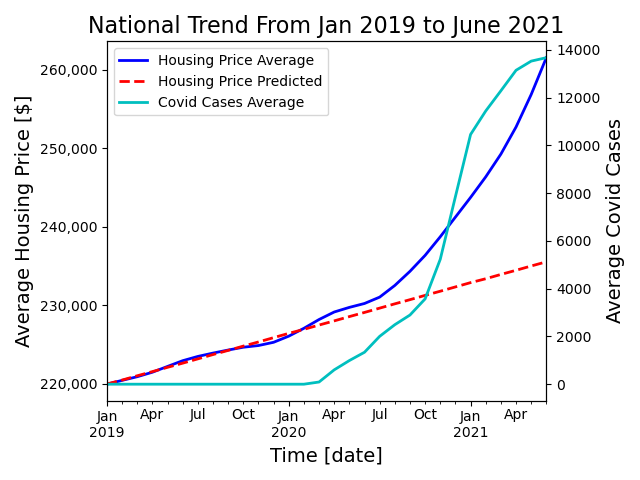
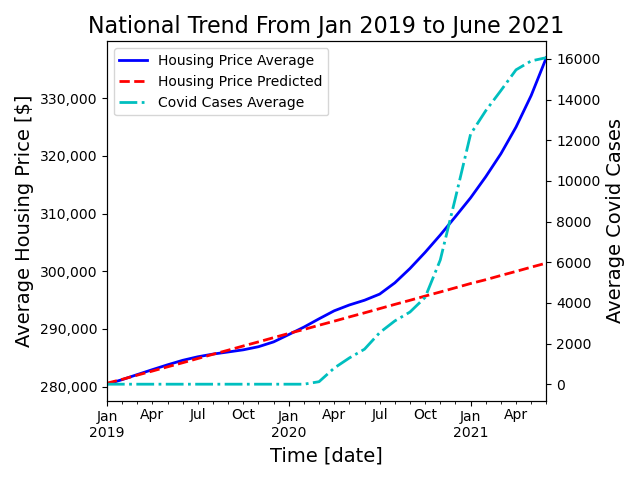
add group by to dz

diff --git a/main.py b/main.py
@@ -12,24 +12,24 @@ def covid(df_z,df_p,df_d,df_c,df_r,df_i):
     df_z.drop(df_z.iloc[:, 0:5], axis = 1, inplace = True)
     df_z.drop(df_z.iloc[:, 1:3], axis=1, inplace=True)
 
-    #rearrange columns
+    #rearrange columns and change data type
     #dz
     cols = df_z.columns.tolist()
-    cols = cols[-30:]+cols[0:1] #chose data and state
+    cols = cols[0:1]+cols[-30:] #chose data and state
     df_z_average= df_z[cols]
-    for col in cols[:-1]:
+    for col in cols[1:]:
         df_z_average[col] = df_z_average[col].astype('float')
-    #dc and d_d
 
-    #arrange back and transpose
-    cols = cols[-1:] + cols[0:-1]
-    df_z_average = df_z_average[cols]
+    #calculate mean transpose
+    df_z_average= df_z_average.set_index("State")
+    df_z_average = df_z_average.groupby("State").mean()
     df_z_average_T = df_z_average.T
 
+
     #remove header
-    new_header = df_z_average_T.iloc[0]
-    df_z_average_T = df_z_average_T[1:]
-    df_z_average_T.columns = new_header
+    # new_header = df_z_average_T.iloc[0]
+    # df_z_average_T = df_z_average_T[1:]
+    # df_z_average_T.columns = new_header
 
     #calculate average
     df_z_average_T.index = pd.to_datetime(df_z_average_T.index)
@@ -68,7 +68,7 @@ def covid(df_z,df_p,df_d,df_c,df_r,df_i):
     average_plot = average_plot.fillna(0)
 
     fig, ax = plt.subplots()
-    styles = ['c-','m-','b-',  'r--']
+    styles = ['c-.','m-','b-',  'r--']
     linewidths = [2, 2,2,2]
     for col, style, lw in zip(average_plot.columns[2:], styles[2:], linewidths[2:]):
         average_plot[col].plot(style=style, lw=lw, ax=ax)
@@ -90,8 +90,15 @@ def covid(df_z,df_p,df_d,df_c,df_r,df_i):
     plt.tight_layout()
     plt.savefig("image1.png")
 
-    # plot correlation
+    # plot most impacted state
     diff_plot = df_z_average_T['difference']
+    # covid_by_state = df_c_average.iloc[:,-1:]
+    # house_by_state = df_z_average.loc[:, df_z_average.columns[[0,-1]]]
+    # house_by_state = house_by_state.set_index("State")
+    # print(len(house_by_state.index))
+    # print(house_by_state)
+    #house_covid = pd.concat([covid_by_state,house_by_state],axis=1)
+
 
     fig2, ax2 = plt.subplots()
     ax2.get_yaxis().set_major_formatter(
@@ -110,10 +117,6 @@ def covid(df_z,df_p,df_d,df_c,df_r,df_i):
     df_p_mean = df_p.groupby("State").mean()
 
 
-    df_c_mean = df_c.groupby("State").mean()
-    df_d_mean = df_d.groupby("State").mean()
-
-
 
 
 
@@ -123,7 +126,7 @@ def covid(df_z,df_p,df_d,df_c,df_r,df_i):
 
 
 if __name__ == '__main__':
-    real =True
+    real =False
     generate = False
 
     # generate
